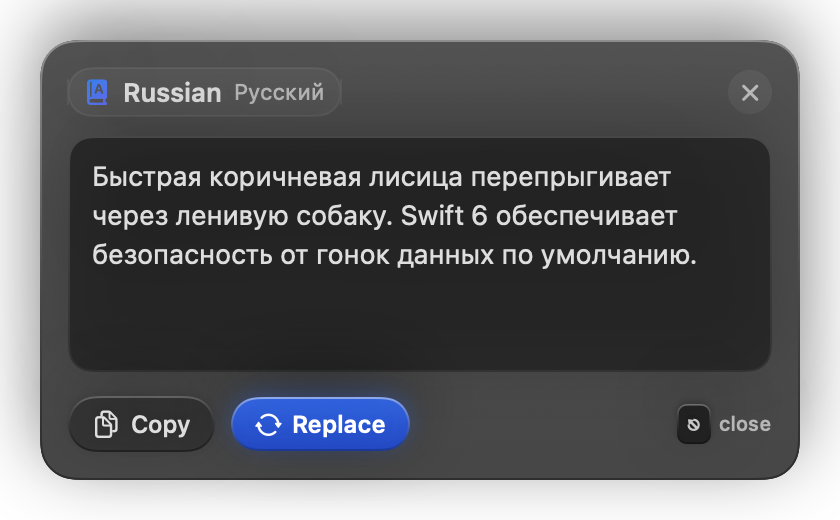
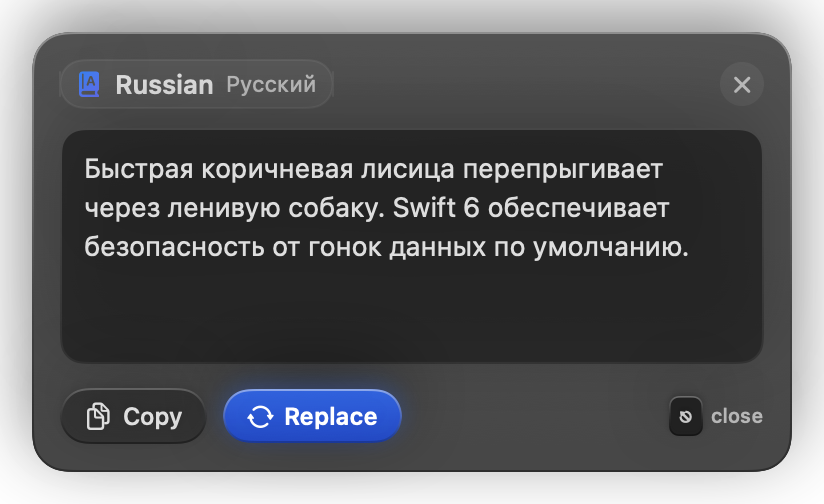
fix(readme): fix window background and layout in screenshot gallery

diff --git a/Tests/LightLTests/ScreenshotGenerator.swift b/Tests/LightLTests/ScreenshotGenerator.swift
@@ -7,15 +7,16 @@ import AppKit
 struct ScreenshotGenerator {
 
     @MainActor
-    private func renderViewInWindow<V: View>(view: V, size: CGSize, isOpaque: Bool = false) -> NSImage? {
+    private func renderViewInWindow<V: View>(view: V, size: CGSize) -> NSImage? {
         let win = NSWindow(
             contentRect: NSRect(origin: .zero, size: size),
             styleMask: [.borderless],
             backing: .buffered,
             defer: false
         )
-        win.isOpaque = isOpaque
-        win.backgroundColor = isOpaque ? .windowBackgroundColor : .clear
+        win.appearance = NSAppearance(named: .darkAqua)
+        win.isOpaque = false
+        win.backgroundColor = .clear
 
         let hosting = NSHostingView(rootView: view)
         hosting.frame = CGRect(origin: .zero, size: size)
@@ -43,6 +44,46 @@ struct ScreenshotGenerator {
         try? pngData.write(to: URL(fileURLWithPath: path))
     }
 
+    @MainActor
+    @ViewBuilder
+    private func windowMockup(tab: SettingsTab) -> some View {
+        ZStack(alignment: .topLeading) {
+            // macOS Window unified body
+            HStack(spacing: 0) {
+                // Sidebar background
+                Color(red: 0.13, green: 0.13, blue: 0.15)
+                    .frame(width: 205)
+
+                // Divider line
+                Color.white.opacity(0.08)
+                    .frame(width: 1)
+
+                // Detail content background (solid dark surface)
+                Color(red: 0.16, green: 0.16, blue: 0.18)
+            }
+
+            // Real Settings View
+            SettingsView(initialTab: tab)
+
+            // macOS Window Traffic lights
+            HStack(spacing: 7) {
+                Circle().fill(Color(red: 1.0, green: 0.36, blue: 0.34)).frame(width: 11, height: 11)
+                Circle().fill(Color(red: 1.0, green: 0.74, blue: 0.18)).frame(width: 11, height: 11)
+                Circle().fill(Color(red: 0.15, green: 0.79, blue: 0.37)).frame(width: 11, height: 11)
+            }
+            .padding(.leading, 12)
+            .padding(.top, 11)
+        }
+        .frame(width: 680, height: 490)
+        .clipShape(RoundedRectangle(cornerRadius: 12, style: .continuous))
+        .overlay(
+            RoundedRectangle(cornerRadius: 12, style: .continuous)
+                .stroke(Color.white.opacity(0.12), lineWidth: 1)
+        )
+        .preferredColorScheme(.dark)
+        .padding(20)
+    }
+
     @Test("Generate README Screenshots")
     @MainActor
     func generateScreenshots() {
@@ -56,7 +97,6 @@ struct ScreenshotGenerator {
         }
 
         let targetLangRu = LanguageModel.supportedLanguages.first(where: { $0.code == "ru" }) ?? LanguageModel.defaultTarget
-
         let sampleEnglish = "The quick brown fox jumps over the lazy dog. Swift 6 brings data race safety by default."
         let sampleRussian = "Быстрая коричневая лисица перепрыгивает через ленивую собаку. Swift 6 обеспечивает безопасность от гонок данных по умолчанию."
 
@@ -73,12 +113,12 @@ struct ScreenshotGenerator {
                 onReplace: {},
                 onClose: {}
             )
-            .padding(20)
+            .padding(16)
         }
         .preferredColorScheme(.dark)
-        .frame(width: 420, height: 260)
+        .frame(width: 412, height: 252)
 
-        if let img = renderViewInWindow(view: popoverDark, size: CGSize(width: 420, height: 260)) {
+        if let img = renderViewInWindow(view: popoverDark, size: CGSize(width: 412, height: 252)) {
             saveImage(img, to: assetsDir.appendingPathComponent("popover_dark.png").path)
         }
 
@@ -95,54 +135,30 @@ struct ScreenshotGenerator {
                 onReplace: {},
                 onClose: {}
             )
-            .padding(20)
+            .padding(16)
         }
         .preferredColorScheme(.light)
-        .frame(width: 420, height: 260)
+        .frame(width: 412, height: 252)
 
-        if let img = renderViewInWindow(view: popoverLight, size: CGSize(width: 420, height: 260)) {
+        if let img = renderViewInWindow(view: popoverLight, size: CGSize(width: 412, height: 252)) {
             saveImage(img, to: assetsDir.appendingPathComponent("popover_light.png").path)
         }
 
         // 3. Settings AI Model
-        let settingsAi = SettingsView(initialTab: .aiModel)
-            .preferredColorScheme(.dark)
-            .clipShape(RoundedRectangle(cornerRadius: 14, style: .continuous))
-            .overlay(
-                RoundedRectangle(cornerRadius: 14, style: .continuous)
-                    .stroke(Color.primary.opacity(0.12), lineWidth: 1)
-            )
-            .padding(15)
-
-        if let img = renderViewInWindow(view: settingsAi, size: CGSize(width: 710, height: 520), isOpaque: true) {
+        let settingsAi = windowMockup(tab: .aiModel)
+        if let img = renderViewInWindow(view: settingsAi, size: CGSize(width: 720, height: 530)) {
             saveImage(img, to: assetsDir.appendingPathComponent("settings_preview.png").path)
         }
 
         // 4. Settings Translation & Shortcuts
-        let settingsTranslation = SettingsView(initialTab: .translation)
-            .preferredColorScheme(.dark)
-            .clipShape(RoundedRectangle(cornerRadius: 14, style: .continuous))
-            .overlay(
-                RoundedRectangle(cornerRadius: 14, style: .continuous)
-                    .stroke(Color.primary.opacity(0.12), lineWidth: 1)
-            )
-            .padding(15)
-
-        if let img = renderViewInWindow(view: settingsTranslation, size: CGSize(width: 710, height: 520), isOpaque: true) {
+        let settingsTranslation = windowMockup(tab: .translation)
+        if let img = renderViewInWindow(view: settingsTranslation, size: CGSize(width: 720, height: 530)) {
             saveImage(img, to: assetsDir.appendingPathComponent("settings_translation.png").path)
         }
 
         // 5. Settings Rewrite & Proofreading
-        let settingsRewrite = SettingsView(initialTab: .rewrite)
-            .preferredColorScheme(.dark)
-            .clipShape(RoundedRectangle(cornerRadius: 14, style: .continuous))
-            .overlay(
-                RoundedRectangle(cornerRadius: 14, style: .continuous)
-                    .stroke(Color.primary.opacity(0.12), lineWidth: 1)
-            )
-            .padding(15)
-
-        if let img = renderViewInWindow(view: settingsRewrite, size: CGSize(width: 710, height: 520), isOpaque: true) {
+        let settingsRewrite = windowMockup(tab: .rewrite)
+        if let img = renderViewInWindow(view: settingsRewrite, size: CGSize(width: 720, height: 530)) {
             saveImage(img, to: assetsDir.appendingPathComponent("settings_rewrite.png").path)
         }
     }

diff --git a/Sources/LightL/UI/Settings/SettingsView.swift b/Sources/LightL/UI/Settings/SettingsView.swift
@@ -93,7 +93,7 @@ public struct SettingsView: View {
             HStack {
                 Spacer()
             }
-            .frame(height: 12)
+            .frame(height: 28)
 
             // App Brand Banner
             HStack(spacing: 8) {

diff --git a/README.md b/README.md
@@ -77,12 +77,10 @@ Select text anywhere — in your IDE, browser, chat, or mail client — and pres
     <td><img src="assets/settings_rewrite.png" width="100%" alt="LightL Rewrite and Correction Settings" /></td>
   </tr>
   <tr>
-    <td align="center"><b>Hotkeys & Translation Target</b></td>
-    <td align="center"><b>Floating Popover in Action</b></td>
+    <td align="center" colspan="2"><b>Keyboard Shortcuts & Target Language</b></td>
   </tr>
   <tr>
-    <td><img src="assets/settings_translation.png" width="100%" alt="LightL Shortcuts and Language Settings" /></td>
-    <td><img src="assets/popover_dark.png" width="100%" alt="LightL Popover Preview" /></td>
+    <td align="center" colspan="2"><img src="assets/settings_translation.png" width="60%" alt="LightL Shortcuts and Language Settings" /></td>
   </tr>
 </table>
 
